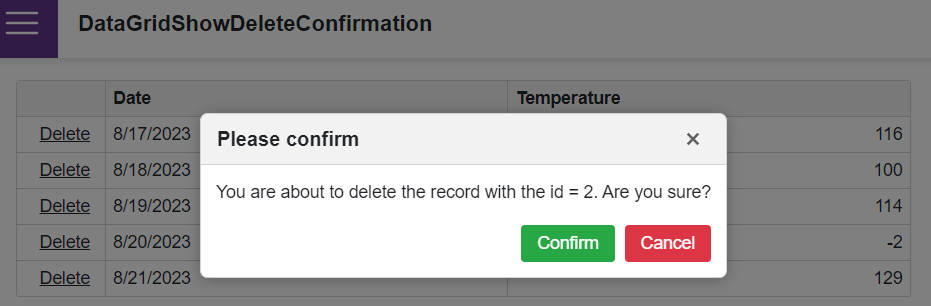
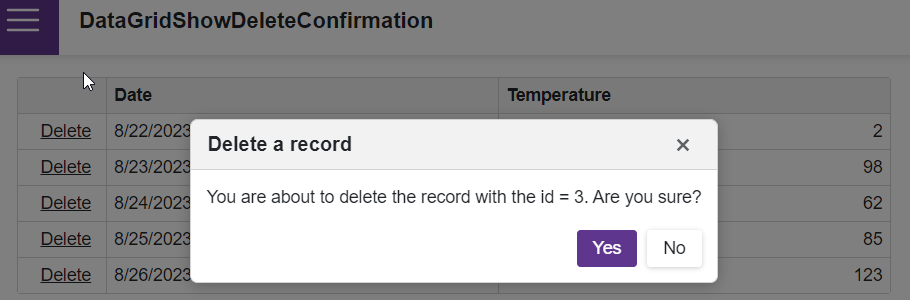
update example

diff --git a/Readme.md b/Readme.md
@@ -12,10 +12,10 @@ The example uses the DevExpress Blazor Popup control ([DxPopup](https://docs.dev
 
 The project illustrates how you can incorporate the following capabilities into your Blazor-powered web application:
 
-- Create a custom confirmation dialog with the **Confirm** and **Cancel** [buttons](https://docs.devexpress.com/Blazor/DevExpress.Blazor.DxButton).
+- Create a custom confirmation dialog with the **Yes** and **No** [buttons](https://docs.devexpress.com/Blazor/DevExpress.Blazor.DxButton).
 - Add a custom **Delete** button to a Blazor Grid column.
 - Display a confirmation dialog when a user [clicks](https://docs.devexpress.com/Blazor/DevExpress.Blazor.DxButton.Click) the **Delete** button.
-- Delete the record when a user clicks the **Confirm** button.
+- Delete the record when a user clicks the **Yes** button.
 
 ## Files to Review
 
